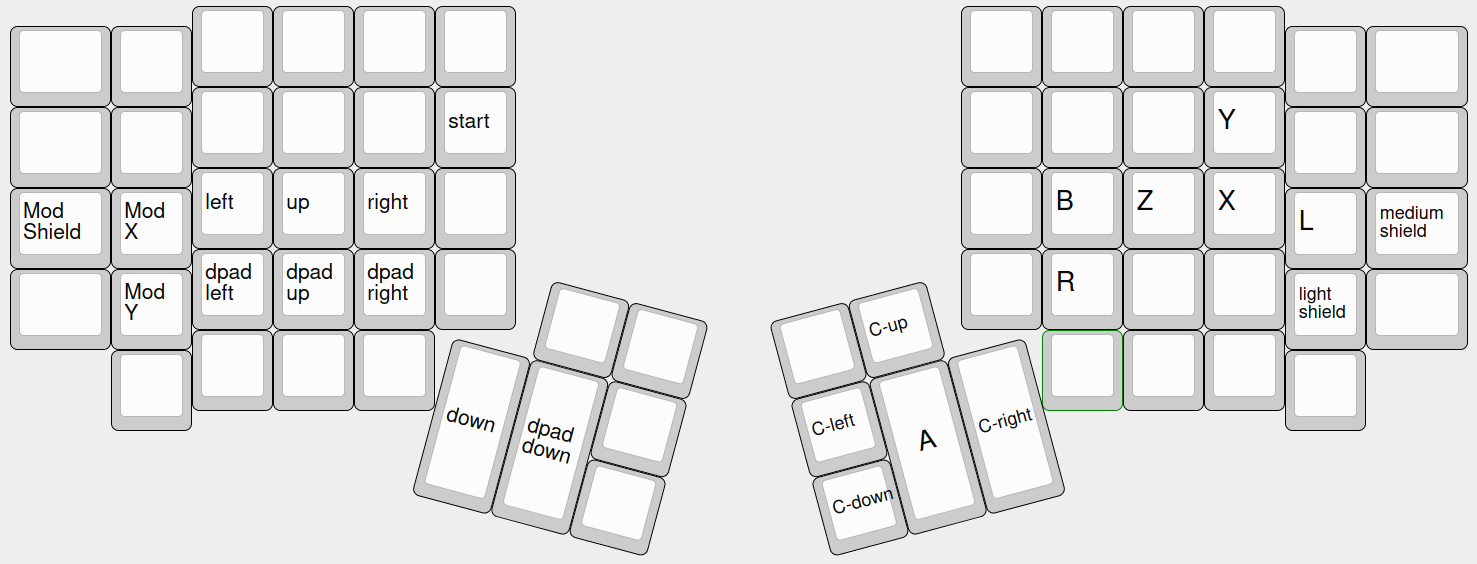
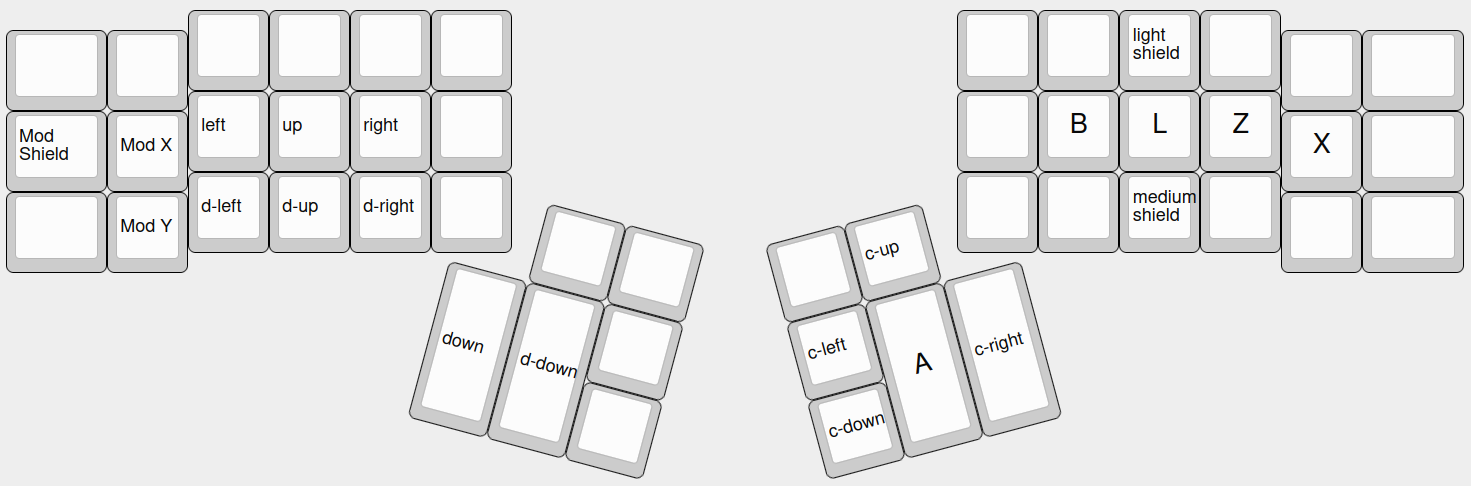
rename to XZLBA

Changed region(s): [[0.0, 0.0, 0.4895, 0.9877], [0.5201, 0.0, 1.0, 0.9877]]

diff --git a/src/main.rs b/src/main.rs
@@ -276,44 +276,36 @@ fn main() {
                             send_event(&l, EventCode::EV_KEY(EV_KEY::BTN_START), value)
                         }
 
-                        // L
-                        EventCode::EV_KEY(EV_KEY::KEY_S) => {
-                            send_event(&l, EventCode::EV_ABS(EV_ABS::ABS_Z), value * MAX_TRIGGER)
-                        }
-                        // lightest shield possible
-                        EventCode::EV_KEY(EV_KEY::KEY_Z) => {
-                            send_event(&l, EventCode::EV_ABS(EV_ABS::ABS_RZ), value * 49)
-                        }
-                        // medium shield
-                        EventCode::EV_KEY(EV_KEY::KEY_RIGHTCTRL) => {
-                            send_event(&l, EventCode::EV_ABS(EV_ABS::ABS_RZ), value * 92)
-                        }
                         // X
-                        EventCode::EV_KEY(EV_KEY::KEY_N) if value == 1 => {
+                        EventCode::EV_KEY(EV_KEY::KEY_S) if value == 1 => {
                             if jump_delay_ms == 0 {
                                 send_event(&l, EventCode::EV_KEY(EV_KEY::BTN_WEST), 1)
                             } else {
                                 delayed_jump_fut.set(futures::FutureExt::fuse(async_io::Timer::after(std::time::Duration::from_millis(jump_delay_ms))));
                             }
                         }
-                        EventCode::EV_KEY(EV_KEY::KEY_N) if value == 0 => {
+                        EventCode::EV_KEY(EV_KEY::KEY_S) if value == 0 => {
                             send_event(&l, EventCode::EV_KEY(EV_KEY::BTN_WEST), 0)
                         }
-                        // Y
-                        EventCode::EV_KEY(EV_KEY::KEY_V) => {
-                            send_event(&l, EventCode::EV_KEY(EV_KEY::BTN_NORTH), value)
-                        }
                         // Z
-                        EventCode::EV_KEY(EV_KEY::KEY_T) => {
+                        EventCode::EV_KEY(EV_KEY::KEY_N) => {
                             send_event(&l, EventCode::EV_KEY(EV_KEY::BTN_Z), value)
+                        }
+                        // L
+                        EventCode::EV_KEY(EV_KEY::KEY_T) => {
+                            send_event(&l, EventCode::EV_ABS(EV_ABS::ABS_Z), value * MAX_TRIGGER)
+                        }
+                        // lightest shield possible
+                        EventCode::EV_KEY(EV_KEY::KEY_C) => {
+                            send_event(&l, EventCode::EV_ABS(EV_ABS::ABS_RZ), value * 49)
+                        }
+                        // medium shield
+                        EventCode::EV_KEY(EV_KEY::KEY_W) => {
+                            send_event(&l, EventCode::EV_ABS(EV_ABS::ABS_RZ), value * 92)
                         }
                         // B
                         EventCode::EV_KEY(EV_KEY::KEY_H) => {
                             send_event(&l, EventCode::EV_KEY(EV_KEY::BTN_EAST), value)
-                        }
-                        // R
-                        EventCode::EV_KEY(EV_KEY::KEY_M) => {
-                            send_event(&l, EventCode::EV_ABS(EV_ABS::ABS_RZ), value * MAX_TRIGGER)
                         }
                         // A
                         EventCode::EV_KEY(EV_KEY::KEY_BACKSPACE) => {

diff --git a/README.md b/README.md
@@ -1,11 +1,11 @@
-# LXZBRA
+# XZLBA
 
 Emulates gamepad inputs for the purpose of playing Super Mash Bros Melee on Linux with a keyboard.
 
 The layout is legal according to the controller addendum used at most tournaments that allow
-box-style controllers.
+box-style controllers. [Link to diagram](shorturl.at/auS01).
 
-![LXZBRA Keyboard Layout](img/layout.png)
+![Keyboard Layout](img/layout.png)
 
 The layout is named after the right-hand buttons from pinky inwards. The layout is inspired by
 B0XX, with a few modifications:
